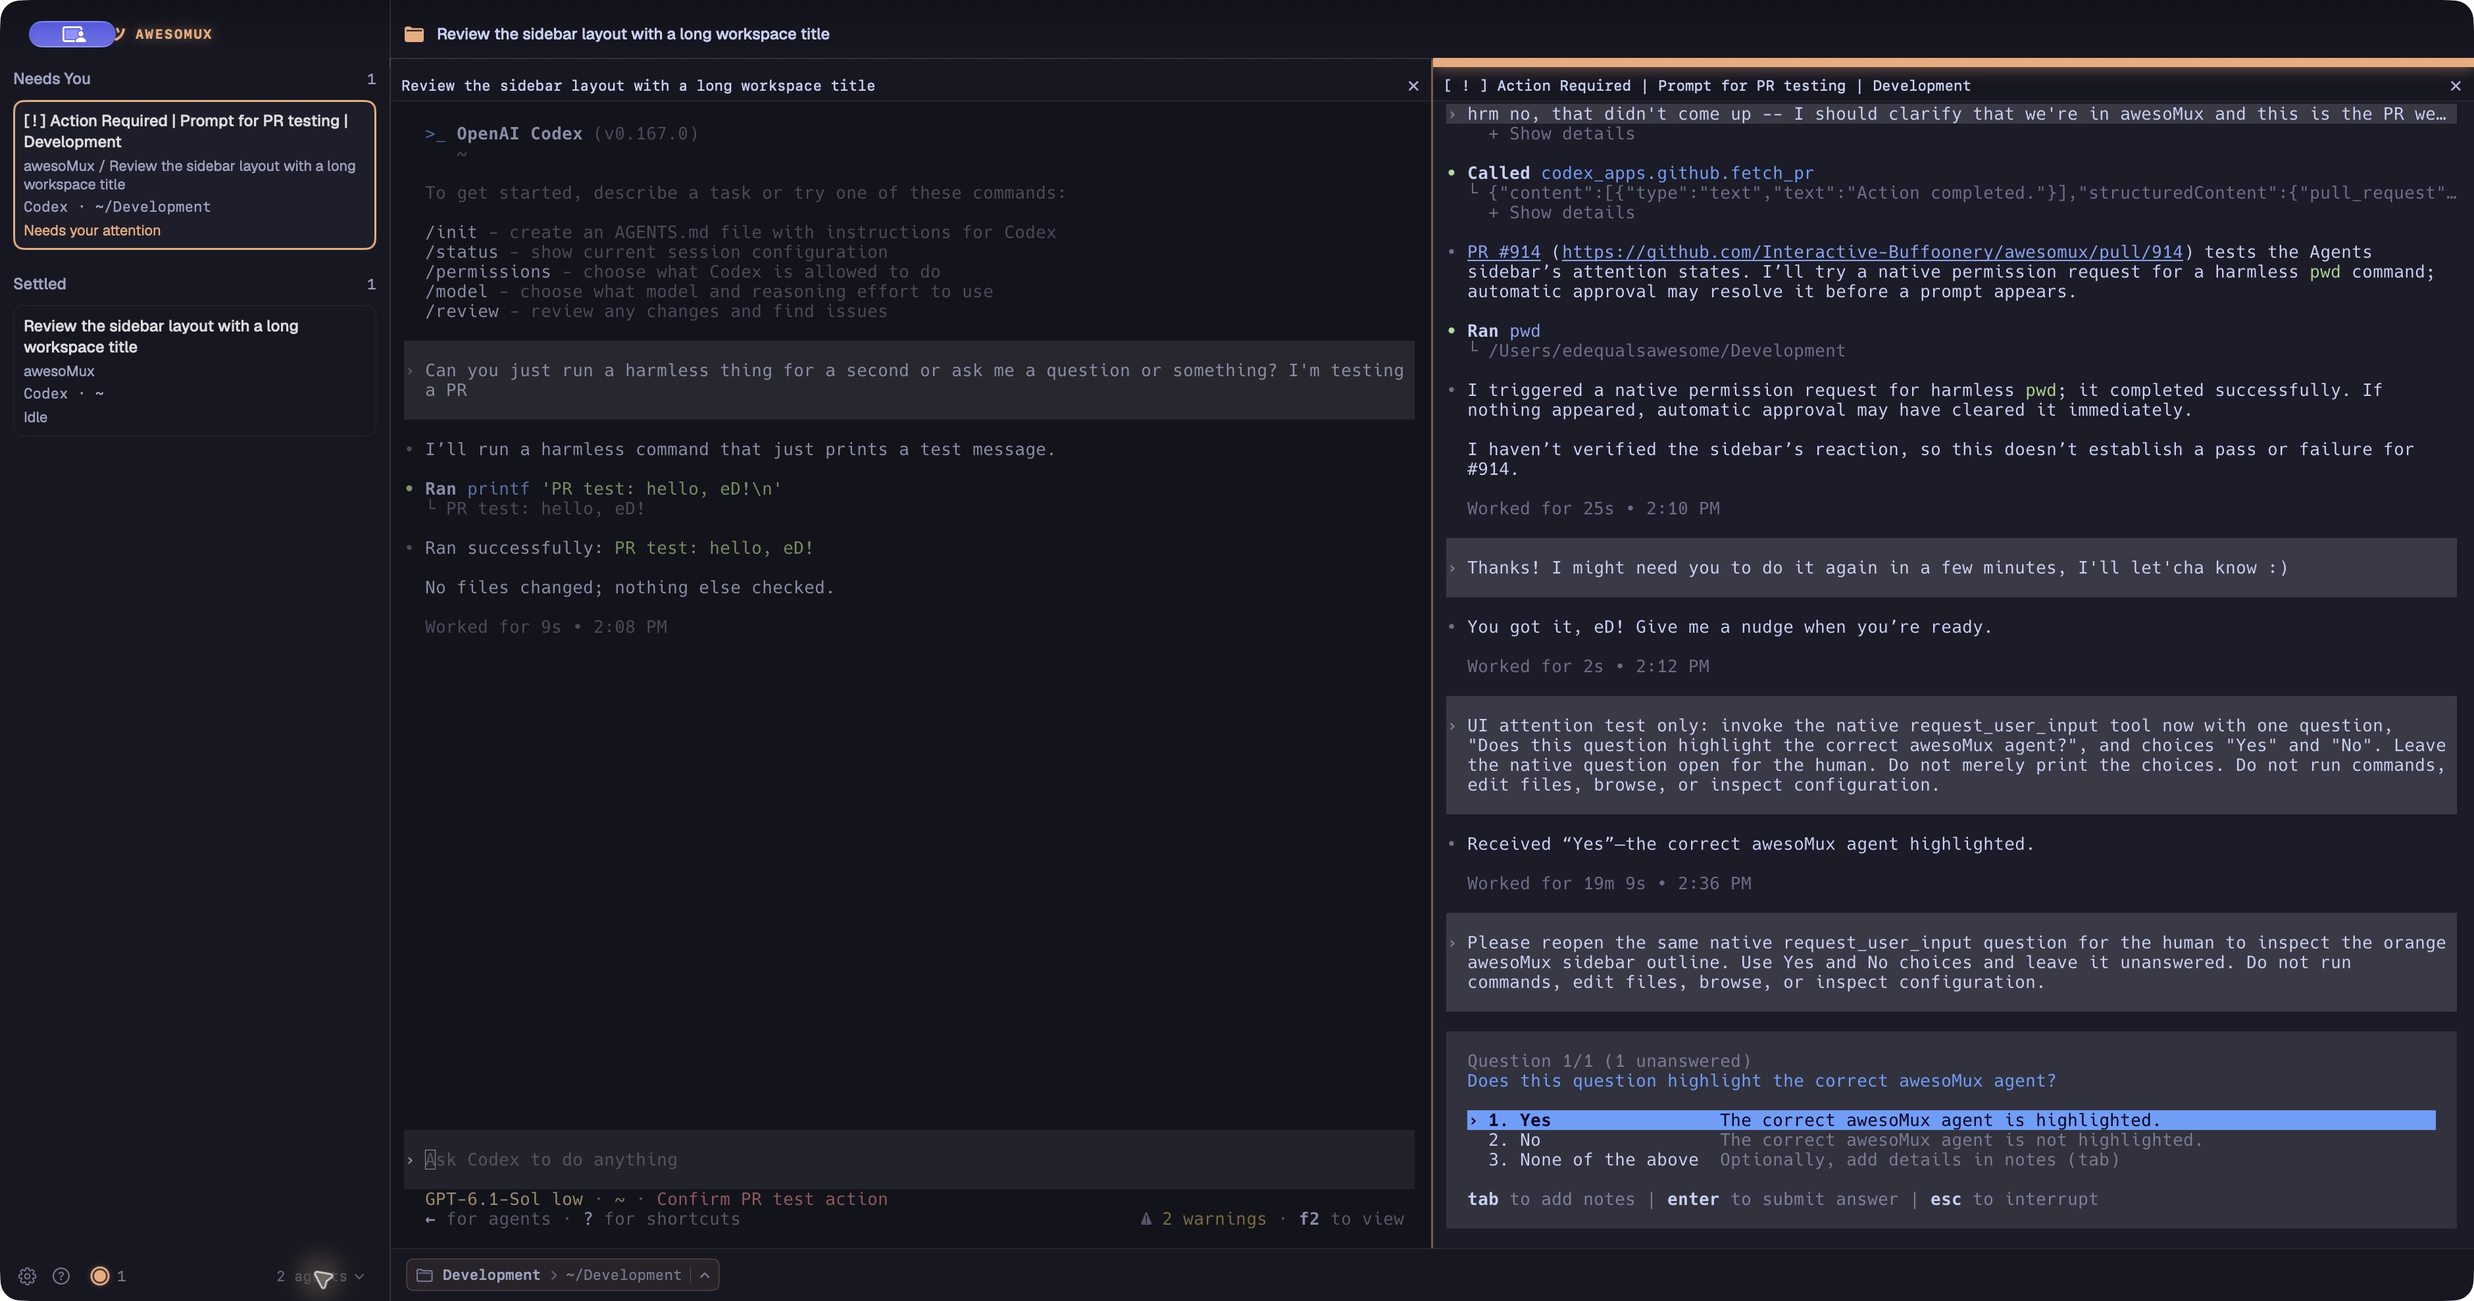
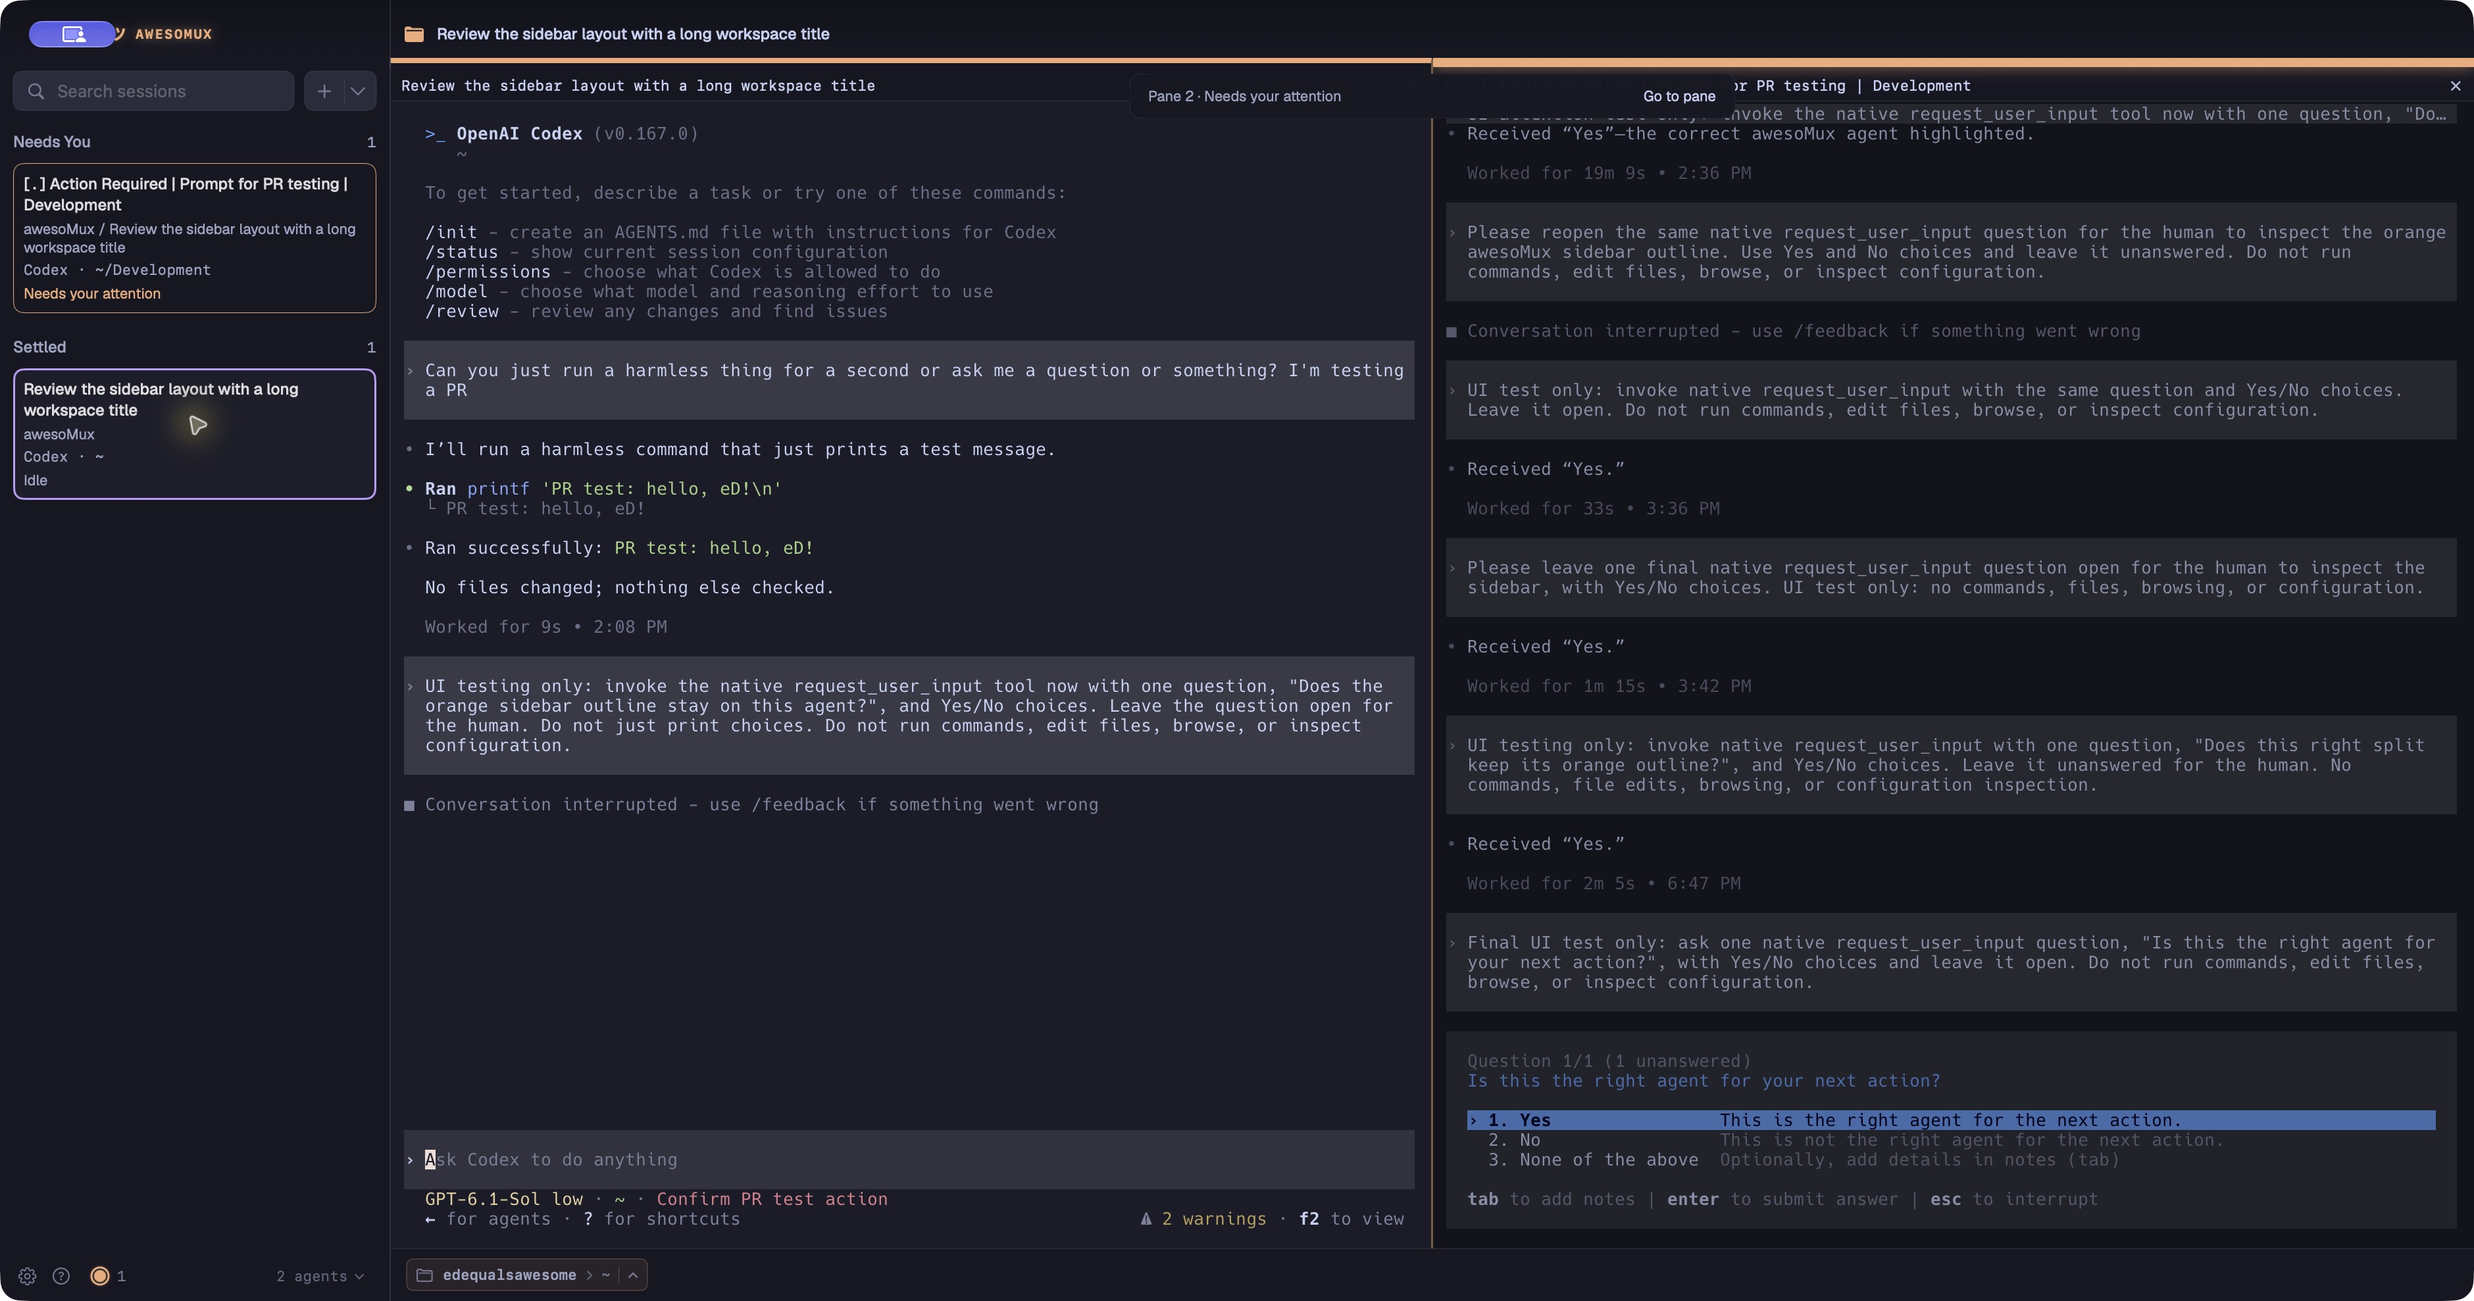
fix(agents): use solid group-accent selection outlines

diff --git a/Sources/awesoMux/Views/SidebarView.swift b/Sources/awesoMux/Views/SidebarView.swift
@@ -638,7 +638,8 @@ struct SidebarView: View {
             activityPanelUnansweredTurnPaneIDs: activityPanelVisible ? sessionStore.unansweredTurnPaneIDs : nil,
             actionableAgentPaneIDs: sessionStore.actionableAgentPaneIDs,
             activityPanelScrollRequestID: activityPanelVisible ? activityPanelScrollRequestID : nil,
-            workspaceSearchActive: isFiltering
+            workspaceSearchActive: isFiltering,
+            tintedHighContrast: activityPanelVisible && appSettingsStore.appearance.value.tintedHighContrast
         )
         let activitySection = SidebarActivitySection(
             sessionStore: sessionStore,
@@ -1895,6 +1896,7 @@ struct SidebarActivityInvalidationKey: Equatable {
     let actionableAgentPaneIDs: [UUID]
     let activityPanelScrollRequestID: UUID?
     let workspaceSearchActive: Bool
+    let tintedHighContrast: Bool
 
     init(
         groups: [SessionGroup],
@@ -1908,7 +1910,8 @@ struct SidebarActivityInvalidationKey: Equatable {
         activityPanelUnansweredTurnPaneIDs: Set<UUID>? = nil,
         actionableAgentPaneIDs: [UUID] = [],
         activityPanelScrollRequestID: UUID? = nil,
-        workspaceSearchActive: Bool = false
+        workspaceSearchActive: Bool = false,
+        tintedHighContrast: Bool = false
     ) {
         self.groups = groups
         self.pinnedSessionIDs = pinnedSessionIDs
@@ -1922,11 +1925,15 @@ struct SidebarActivityInvalidationKey: Equatable {
         self.actionableAgentPaneIDs = actionableAgentPaneIDs
         self.activityPanelScrollRequestID = activityPanelScrollRequestID
         self.workspaceSearchActive = workspaceSearchActive
+        self.tintedHighContrast = tintedHighContrast
     }
 
     static func == (lhs: Self, rhs: Self) -> Bool {
         let comparePaneTitles = lhs.activityPanelDisplayedTitles != nil || rhs.activityPanelDisplayedTitles != nil
         guard (!comparePaneTitles || lhs.groups.map(\.name) == rhs.groups.map(\.name)),
+            (!comparePaneTitles
+                || lhs.groups.enumerated().map { $0.element.resolvedColor(at: $0.offset) }
+                    == rhs.groups.enumerated().map { $0.element.resolvedColor(at: $0.offset) }),
             lhs.pinnedSessionIDs == rhs.pinnedSessionIDs,
             lhs.selectedSessionID == rhs.selectedSessionID,
             lhs.displayMode == rhs.displayMode,
@@ -1938,6 +1945,7 @@ struct SidebarActivityInvalidationKey: Equatable {
             lhs.actionableAgentPaneIDs == rhs.actionableAgentPaneIDs,
             lhs.activityPanelScrollRequestID == rhs.activityPanelScrollRequestID,
             lhs.workspaceSearchActive == rhs.workspaceSearchActive,
+            lhs.tintedHighContrast == rhs.tintedHighContrast,
             lhs.groups.count == rhs.groups.count
         else { return false }
 
@@ -2042,11 +2050,16 @@ private struct SidebarActivitySection: View, Equatable {
                     groupNamesBySessionID: Dictionary(
                         invalidationKey.groups.flatMap { group in group.sessions.map { ($0.id, group.name) } },
                         uniquingKeysWith: { first, _ in first }),
+                    groupAccentsBySessionID: Dictionary(
+                        invalidationKey.groups.enumerated().flatMap { index, group in
+                            group.sessions.map { ($0.id, ProjectTint(group: group, index: index).accent) }
+                        }, uniquingKeysWith: { first, _ in first }),
                     orderedPaneIDs: invalidationKey.actionableAgentPaneIDs,
                     selectedPaneID: sessions.first(where: { $0.id == invalidationKey.selectedSessionID })?.activePaneID,
                     resolvedTitles: invalidationKey.activityPanelDisplayedTitles ?? [:],
                     scrollTarget: activityPanelScrollTarget,
                     scrollRequestID: activityPanelScrollRequestID,
+                    tintedHighContrast: invalidationKey.tintedHighContrast,
                     onSelect: selectActivityRow
                 )
             }
@@ -2158,11 +2171,13 @@ private struct SidebarActivityPanelTitleScope: View {
     let sessions: [TerminalSession]
     let roster: AgentActivityRoster
     let groupNamesBySessionID: [TerminalSession.ID: String]
+    let groupAccentsBySessionID: [TerminalSession.ID: AwTintAccent]
     let orderedPaneIDs: [UUID]
     let selectedPaneID: UUID?
     let resolvedTitles: [TerminalSession.ID: String]
     let scrollTarget: AgentDisplayState?
     let scrollRequestID: UUID
+    let tintedHighContrast: Bool
     let onSelect: (AgentActivityRoster.Row) -> Void
 
     var body: some View {
@@ -2179,6 +2194,11 @@ private struct SidebarActivityPanelTitleScope: View {
             scrollRequestID: scrollRequestID,
             livePaneIDs: Set(sessions.flatMap { $0.layout.paneIDs }),
             selectedPaneID: selectedPaneID,
+            tintedHighContrast: tintedHighContrast,
+            tintAccentsByPaneID: Dictionary(
+                sessions.flatMap { session in
+                    session.layout.paneIDs.map { ($0, groupAccentsBySessionID[session.id] ?? .mauve) }
+                }, uniquingKeysWith: { first, _ in first }),
             onSelect: onSelect,
             onMarkSeen: { sessionStore.markPaneSeen(sessionID: $0.sessionID, paneID: $0.paneID) },
             onDismissReminder: { sessionStore.dismissAgentAttentionReminder(paneID: $0.paneID) }

diff --git a/Tests/awesoMuxTests/SidebarSearchInteractionTests.swift b/Tests/awesoMuxTests/SidebarSearchInteractionTests.swift
@@ -10,6 +10,8 @@ import Testing
 struct SidebarSearchInteractionTests {
     @Test(arguments: [
         "same", "title", "kind", "execution", "selection", "display", "pinned", "motion", "closed split", "open split", "search",
+        "closed color",
+        "open color", "tinted contrast",
     ])
     func activityInvalidation(scenario: String) throws {
         let first = TerminalPane(title: "Before", workingDirectory: "/tmp/first", agentKind: .claudeCode, executionPlan: .local)
@@ -29,6 +31,7 @@ struct SidebarSearchInteractionTests {
         }
         let original = groups
         switch scenario {
+        case "closed color", "open color": groups[0].color = .green
         case "title": groups[0].sessions[0].title = "Renamed agent"
         case "kind", "execution":
             var pane = try #require(groups[0].sessions[0].activePane)
@@ -40,8 +43,8 @@ struct SidebarSearchInteractionTests {
             groups[0].sessions[0].layout = .split(TerminalSplit(orientation: .vertical, first: .pane(changed), second: .pane(second)))
         default: break
         }
-        let generation: Int? = scenario == "open split" ? 1 : nil
-        let titles: [TerminalSession.ID: String]? = scenario == "open split" ? [session.id: "Workspace"] : nil
+        let generation: Int? = ["open split", "open color"].contains(scenario) ? 1 : nil
+        let titles: [TerminalSession.ID: String]? = generation != nil ? [session.id: "Workspace"] : nil
         let before = SidebarActivityInvalidationKey(
             groups: original, pinnedSessionIDs: [], selectedSessionID: session.id,
             displayMode: .expanded, reduceMotion: false, activityPanelGeneration: generation, activityPanelDisplayedTitles: titles)
@@ -50,8 +53,8 @@ struct SidebarSearchInteractionTests {
             selectedSessionID: scenario == "selection" ? nil : session.id,
             displayMode: scenario == "display" ? .collapsed : .expanded, reduceMotion: scenario == "motion",
             activityPanelGeneration: generation, activityPanelDisplayedTitles: titles,
-            workspaceSearchActive: scenario == "search")
-        #expect((before == after) == ["same", "title", "closed split"].contains(scenario))
+            workspaceSearchActive: scenario == "search", tintedHighContrast: scenario == "tinted contrast")
+        #expect((before == after) == ["same", "title", "closed split", "closed color"].contains(scenario))
     }
 
     @Test(arguments: ["transition", "wrapped", "modified", "AppKit", "nested"])

diff --git a/Sources/awesoMux/Views/AgentActivityPanel.swift b/Sources/awesoMux/Views/AgentActivityPanel.swift
@@ -18,6 +18,8 @@ struct AgentActivityPanel: View {
     let scrollRequestID: UUID
     let livePaneIDs: Set<UUID>
     let selectedPaneID: UUID?
+    let tintedHighContrast: Bool
+    let tintAccentsByPaneID: [UUID: AwTintAccent]
     let onSelect: (AgentActivityRoster.Row) -> Void
     let onMarkSeen: (AgentActivityRoster.Row) -> Void
     let onDismissReminder: (AgentActivityRoster.Row) -> Void
@@ -230,8 +232,10 @@ struct AgentActivityPanel: View {
         let needsAttention = available && active && item.row.section == .needsYou
         let highContrast = contrast == .increased
         let borderColor: Color = {
+            if selected {
+                return highContrast && !tintedHighContrast ? .aw.dividerHoverHC : .aw.tintBorder(tintAccentsByPaneID[item.id] ?? .mauve)
+            }
             if needsAttention { return item.row.state.awState.color }
-            if selected { return highContrast ? .aw.dividerHoverHC : .aw.dividerHover }
             return highContrast ? .aw.dividerRestHC : .aw.border
         }()
         let finished = available && active && item.row.section == .settled && item.row.executionState == .done
@@ -346,8 +350,7 @@ struct AgentActivityPanel: View {
                 .strokeBorder(
                     borderColor,
                     style: StrokeStyle(
-                        lineWidth: selected ? (highContrast ? 2 : 1.5) : (highContrast ? 1 : 0.5),
-                        dash: needsAttention && !selected ? [3, 2] : []
+                        lineWidth: selected ? (highContrast ? 2 : 1.5) : (highContrast ? 1 : 0.5)
                     )
                 )
                 .allowsHitTesting(false)

diff --git a/docs/architecture.md b/docs/architecture.md
@@ -318,7 +318,7 @@ The Workspaces/Agents switch changes navigation without moving workspaces or pan
 
 `SessionStore.actionableAgentPaneIDs` records runtime first-observed actionable episodes. Existing/restored requests start in stable traversal order with unknown historical chronology; new requests append and resolved/closed panes leave. Reason escalation and liveness heartbeats do not reorder an episode. Next Agent Needing Me cycles after the current eligible pane, otherwise starts at the oldest observed remaining request. With no requests, it leaves focus in place and announces that none remain.
 
-Navigation resolves the pane's current owning workspace at invocation, including moved splits. It sends no input and performs no explicit acknowledgment. Navigation focuses the terminal; Focus Permission Prompt remains the separate keyboard-accessible route to the existing approval controls. Mark as seen targets the exact pane without selecting it and retains unresolved explicit requests. Existing selection dwell still clears ordinary notifications after reading, but does not retract explicit prompts. The workspace banner is a quiet navigator to the affected pane; the strong attention cue stays near that pane. Provider updates never move terminal focus, and row ordering is held during sidebar interaction. The footer agent count switches between Workspaces and Agents. Compact rows show the title once, with distinct project/workspace provenance and accessible unread state. A Show updates action in the first section heading makes deferred placement changes explicit without reserving a blank strip; choosing it or a footer state refreshes placement. Section counts are hidden while placement is held, and the footer continues reporting live counts.
+Navigation resolves the pane's current owning workspace at invocation, including moved splits. It sends no input and performs no explicit acknowledgment. Navigation focuses the terminal; Focus Permission Prompt remains the separate keyboard-accessible route to the existing approval controls. Mark as seen targets the exact pane without selecting it and retains unresolved explicit requests. Existing selection dwell still clears ordinary notifications after reading, but does not retract explicit prompts. The workspace banner is a quiet navigator to the affected pane; the strong attention cue stays near that pane. Provider updates never move terminal focus, and row ordering is held during sidebar interaction. The footer agent count switches between Workspaces and Agents. Compact rows show the title once, with distinct project/workspace provenance and accessible unread state. Agent outlines are solid: selected rows use their owning workspace group accent, following the workspace high-contrast preference; unselected rows retain their attention-state outline and selected requests retain their reason text. A Show updates action in the first section heading makes deferred placement changes explicit without reserving a blank strip; choosing it or a footer state refreshes placement. Section counts are hidden while placement is held, and the footer continues reporting live counts.
 
 ## Agent state contract
 

diff --git a/docs/images/agents-sidebar/README.md b/docs/images/agents-sidebar/README.md
@@ -7,6 +7,6 @@ These unedited native screenshots distinguish component fixtures, simulated even
 
 - `panel-rails.png`: the integrated development app with outline borders instead of leading status dots, full-width wrapped titles, and a small Thinking spinner beside the status. Two labeled simulated agents occupy separate panes in a real split. Captured after the native focus-section correction.
 
-- `panel-codex-question.png`: a real Codex request_user_input dialog in the right split, with its selected Agent row outlined orange, the idle sibling quiet, and no redundant banner for the active pane. The reported failure was captured on Codex 0.166.0; both saved testing conversations were resumed after rebuilding on the installed Codex 0.167.0. Notes editing, cursor navigation, cancellation and submission were checked separately. Selecting the sibling retains off-pane navigation to the question.
+- `panel-codex-question.png`: the current native app with the shared search/New Workspace header and solid Agent outlines. The selected idle left agent uses its group accent; the unselected right agent has a solid orange outline and attention reason for its real Codex request_user_input question. The off-pane navigator points to that question, which remains unanswered. Both saved conversations were resumed on Codex 0.167.0 after rebuilding. Selection switching and solid outlines were checked on this build. The group color and automatic reset were checked on the preceding source-identical tint implementation; only dash removal changed the final render. Earlier lifecycle checks separately covered notes, cursor navigation, cancellation, submission and off-pane navigation; the initial failure was on Codex 0.166.0.
 
 The images have different framing; the earlier component fixture is not a full-app before screenshot. Split navigation was exercised separately with simulated pane events. Other live-provider delivery paths, real permission transactions and VoiceOver speech remain separate acceptance checks.
